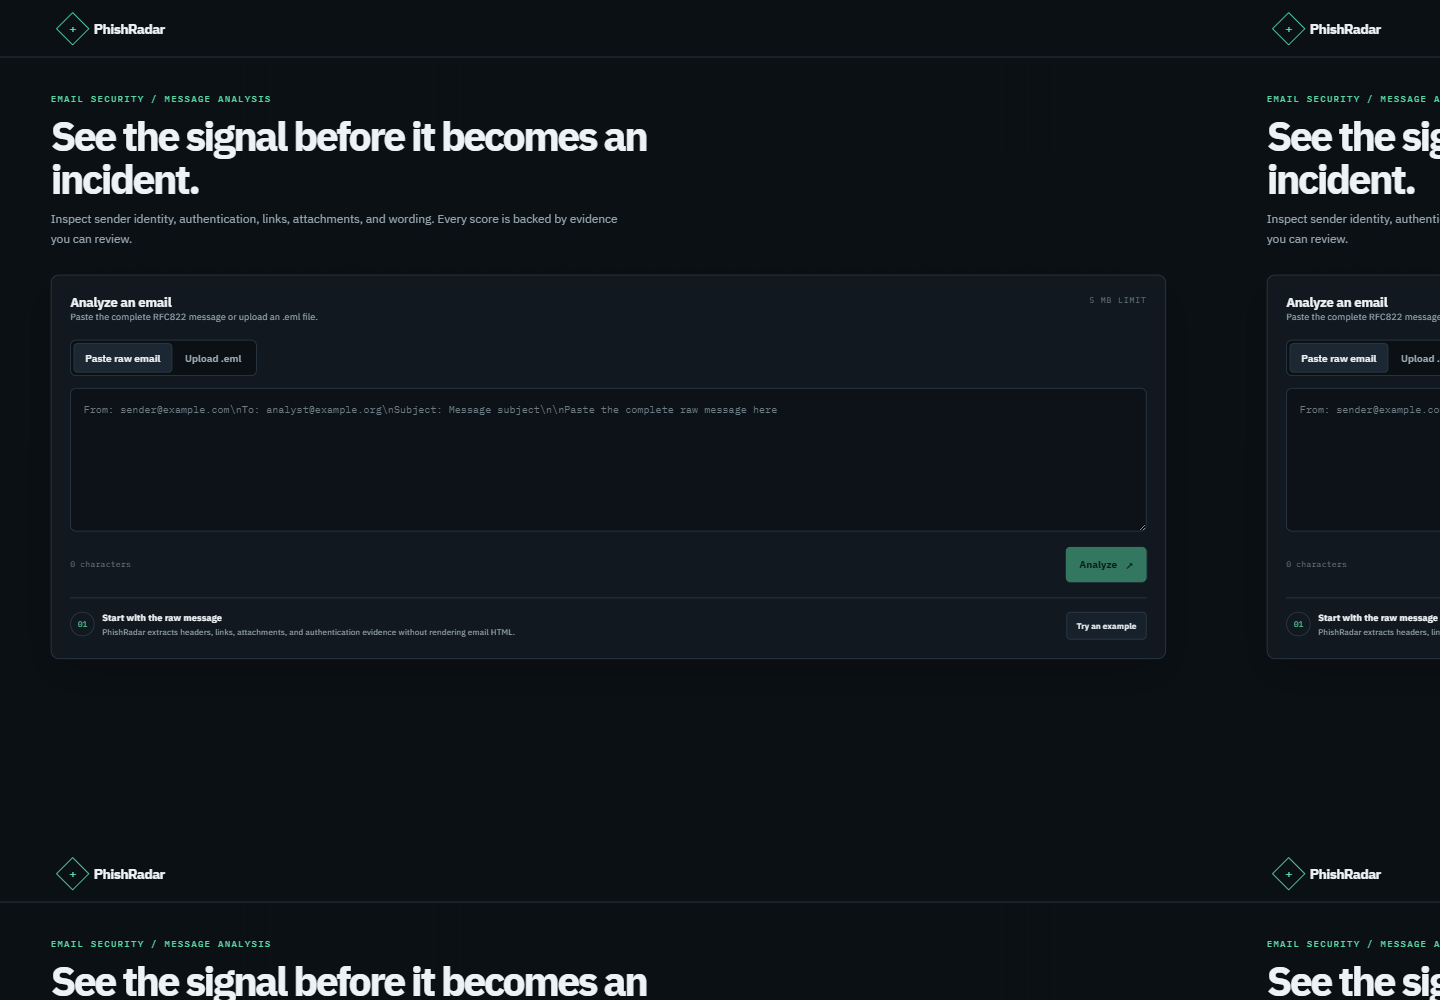
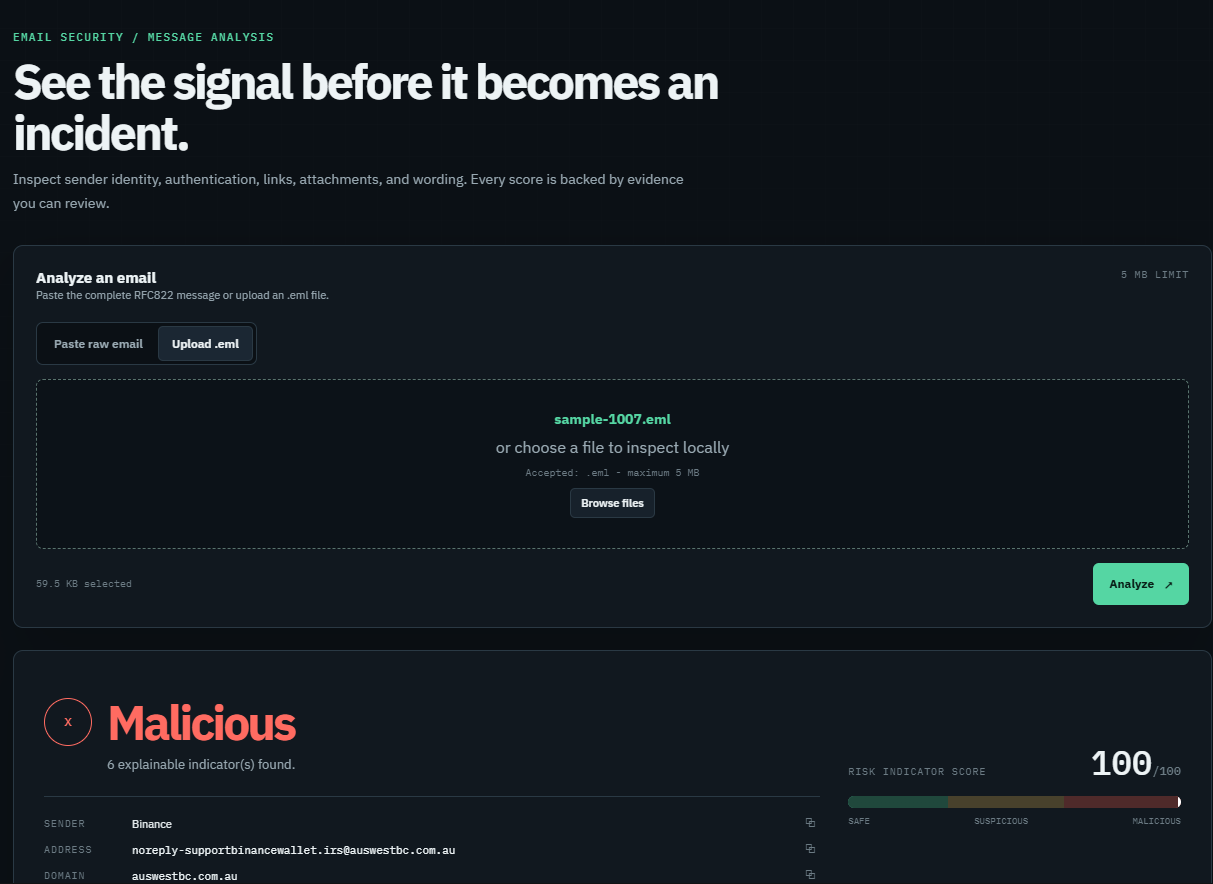
Replace README screenshots with user captures

diff --git a/README.md b/README.md
@@ -27,11 +27,15 @@ PhishRadar is designed for security analysts and anyone who needs to triage a su
 
 ![PhishRadar email analysis workspace](docs/screenshots/dashboard.png)
 
-### Example analysis report
+### Report summary and findings
 
 ![PhishRadar report showing a suspicious-email analysis](docs/screenshots/analysis-report.png)
 
-This report uses synthetic `.invalid` email addresses and contains no live reputation indicators. The evaluation sample set is small and does not represent general detection accuracy.
+### Detailed findings and reputation checks
+
+![PhishRadar detailed findings, indicators, and provider results](docs/screenshots/analysis-details.png)
+
+Screenshots illustrate a sample analysis; provider results can change and should not be treated as a current security verdict. The evaluation sample set is small and does not represent general detection accuracy.
 
 ### Technology
 
